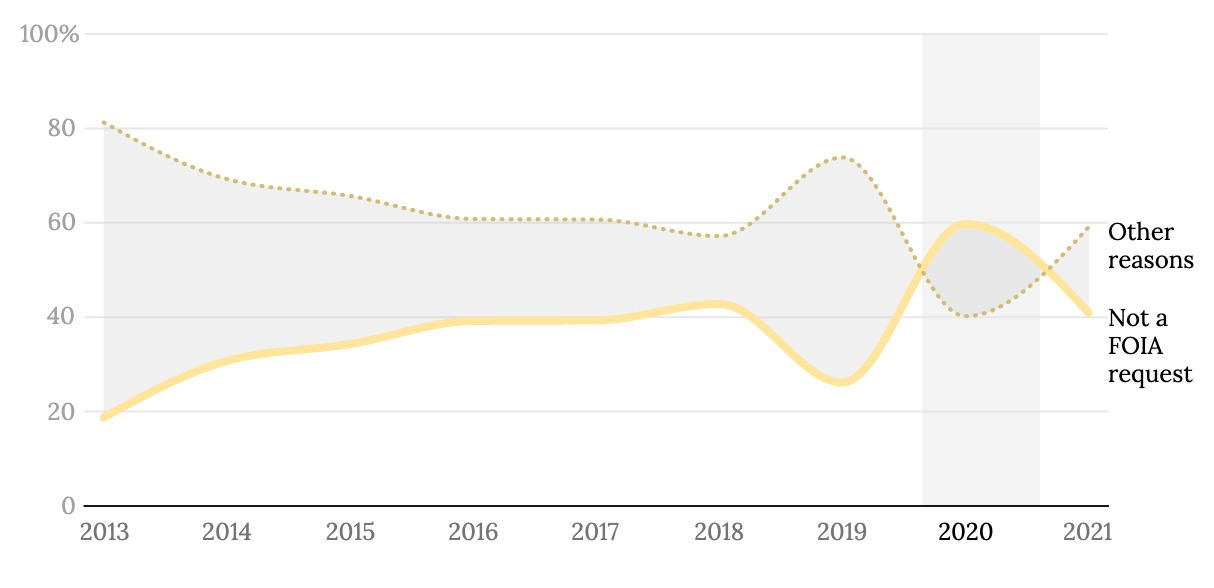
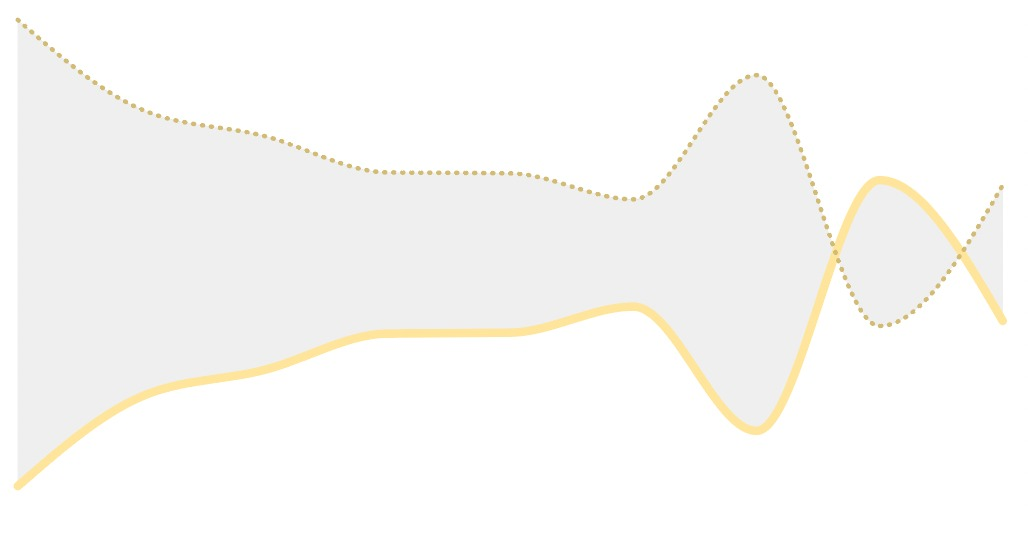
a

diff --git a/index.html b/index.html
@@ -38,11 +38,10 @@
             href="https://luizftoledo.github.io/Portuguese">Portuguese
             </a>
             <br>
-            <br>
           <p class='title'>Data and investigative journalism</p>
 
 
-          <p class='subtitle'>I am Luiz Fernando Toledo, a journalist using investigative 
+          <p class='subtitle'>I am <strong>Luiz Fernando Toledo</strong>, a journalist using investigative 
           and data techniques to bring powerful stories to life
           <p>
       
@@ -58,7 +57,7 @@
     
       
 
-        <img src="clo.jpeg" alt="A network graph" style="width:70%;height:70%;">
+        <img src="grafico_foia.jpeg" alt="A network graph" style="width:70%;height:70%;">
         <p><i class="arrow down"></i></p>
       </div>
       </p>
@@ -83,12 +82,12 @@
           </a>
           after being awarded a <a
             href="https://www.terra.com.br/noticias/educacao/jornalista-do-estado-ganha-bolsa-de-estudo-nos-eua,2f977bb5cef4e4da5489e73fa0bd91f56278avzb.html">full
-            scholarship</a>.
+            scholarship</a>
 
             <br>
             <br>
             <p style="text-align:center;"> <a class="button is-warning is-medium"
-              href="https://drive.google.com/file/d/1HhGwXwzF6lF_jVhUh-qrVzaTuVjIkwR0/view?usp=sharing">Read my full resume</a></p>
+              href="https://drive.google.com/file/d/1HhGwXwzF6lF_jVhUh-qrVzaTuVjIkwR0/view?usp=sharing">Read my resume</a></p>
               <br>
            
 
@@ -618,7 +617,7 @@
                 more secretive under Bolsonaro (Columbia Journalism School)</h3>
               <div class="card-image has-text-centered">
               <figure class="image is-inline-block">
-              <img src="grafico_foia.jpeg" alt ="a line chart containing denied foia requests from 2013 
+              <img src="grafico_foia2.jpeg" alt ="a line chart containing denied foia requests from 2013 
               to 2021 that shows a peak in 2020, during the pandemic" style="width:450px;height:175px;">
               </figure>
             
